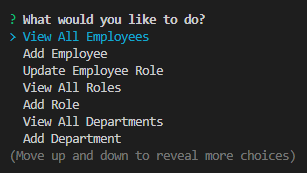
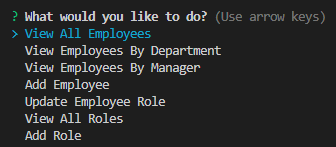
update README to reflect added bonus features

Changed region(s): [[0.0293, 0.0544, 0.9674, 0.8435], [0.0293, 0.8435, 0.9674, 0.9524]]

diff --git a/README.md b/README.md
@@ -2,6 +2,8 @@
 
 # Employee Tracker
 
+![Splash Page](./images/splash-page.png)
+
 <a href="#description">Description</a> •
 <a href="#key-features">Key Features</a> •
 <a href="#installation">Installation</a> •
@@ -20,6 +22,8 @@
 
 <a href="#main-menu">Main Menu</a>                    
 <a href="#view-all-employees">View All Employees</a>                 
+<a href="#view-employees-by-department">View Employees By Department</a>              
+<a href="#view-employees-by-manager">View Employees By Manager</a>              
 <a href="#add-employee">Add Employee</a>                  
 <a href="#update-employee-role">Update Employee Role</a>                
 <a href="#view-all-roles">View All Roles</a>               
@@ -29,11 +33,7 @@
 <a href="#quit">Quit</a>             
 
 This is just an application to display and modify information about the employees in a company.
-When you start the program, you are taken to a splash page:               
-
-![Splash Page](./images/splash-page.png)                  
-
-Then, you are taken to the main menu prompt.         
+When you start the program, you are taken to a splash page, then the main menu prompt.         
 
 ### Main Menu
 
@@ -43,11 +43,34 @@ The main menu prompt has several choices:
 
 ![Main menu prompt choices bottom](./images/main-menu-prompt-bottom.png)                      
 
+Whenever you complete an action chosen from the main menu, you are taken back to the main menu, with the exception of the "Quit" option.
+
 ### View All Employees
 
 If you select the "View All Employees" choice, all the employees and their associated roles and departments are displayed:                
 
 ![View all employees choice](./images/view-all-employees.png)                        
+
+### View Employees By Department
+
+If you select the "View Employees By Department" choice, you are prompted to choose a department:
+
+![View employees by department prompt](./images/view-employees-by-department-prompt.png)           
+
+After you select a department, the list of employees in that department is displayed:                   
+
+![View employees by department results](./images/view-employees-by-department-results.png)           
+
+### View Employees By Manager
+
+If you select the "View Employees By Manager" choice, you are prompted to choose a manager:                    
+
+![View employees by manager prompt](./images/view-employees-by-manager-prompt.png)               
+
+After you select a manager, the list of employees with that manager - or with no manager - is displayed:                     
+
+![View employees by manager success](./images/view-employees-by-manager-success.png)               
+
 
 ### Add Employee
 
@@ -128,12 +151,15 @@ If you select the "Quit" choice, the program quits:
 
 - Store information about employees in one program with a user interface.
 - View all employees and their related role and department information.
+- View all employees by department.
+- View all employees by manager.
 - Add an employee into the system.
 - Update an existing employee's role.
 - View all roles and their related department.
 - Add a new role intothe system.
 - View all departments.
 - Add a new department into the system.
+- Input validation.
 
 ## Installation
 
@@ -159,6 +185,7 @@ If you select the "Quit" choice, the program quits:
 ## Concepts Demonstrated
 
 - Using MySQL to query a database for different types of information.
+- Reading from and writing to a file.
 - The use of node.js
 - Installing and using node.js packages using npm.
 - General JavaScript and programming knowledge.
